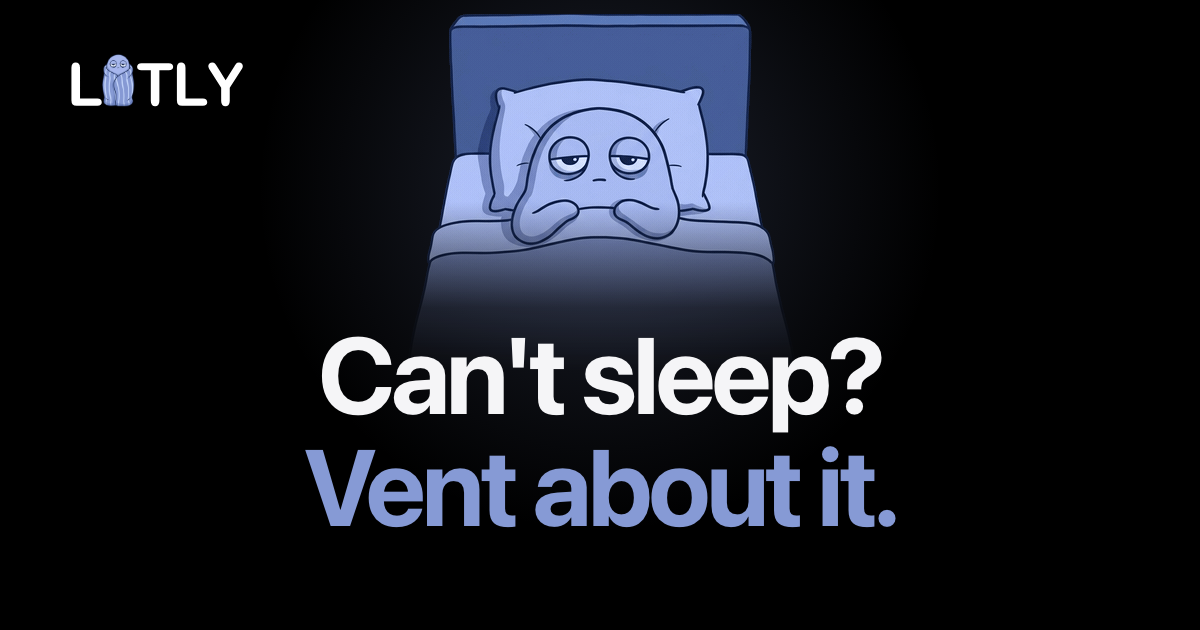
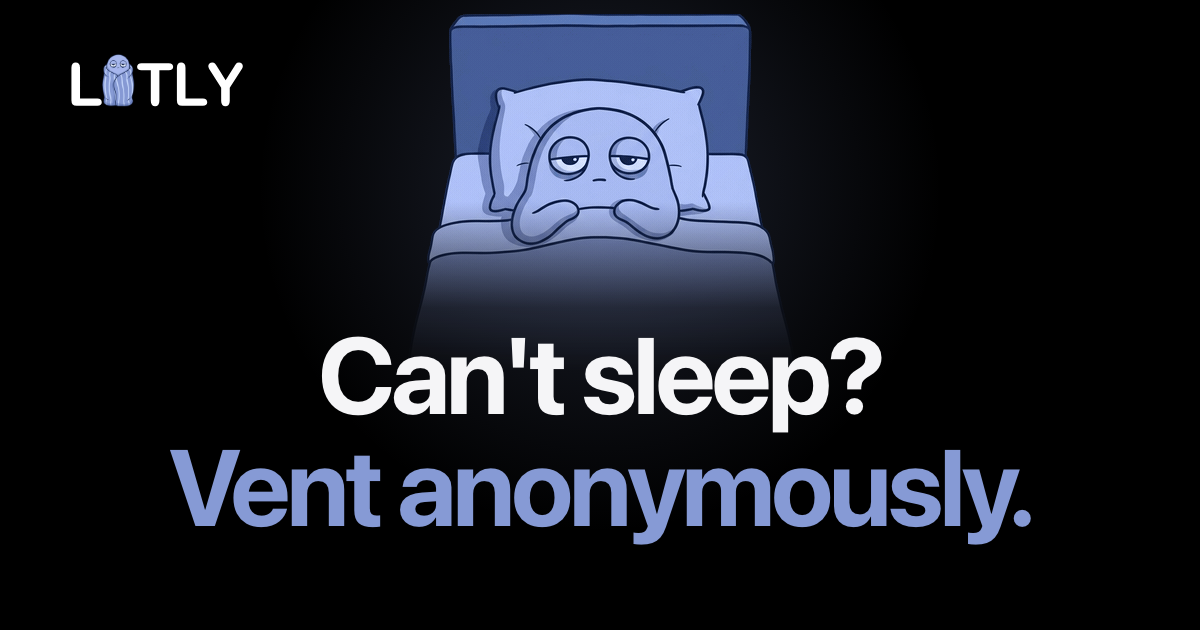
Use 'Vent anonymously.' on OG image and sign-up headline

Changed region(s): [[0.1233, 0.6937, 0.8633, 0.8746]]

diff --git a/public/index.html b/public/index.html
@@ -24,7 +24,7 @@
   <meta property="og:image:type" content="image/png">
   <meta property="og:image:width" content="1200">
   <meta property="og:image:height" content="630">
-  <meta property="og:image:alt" content="Litly - Can't sleep? Vent about it.">
+  <meta property="og:image:alt" content="Litly - Can't sleep? Vent anonymously.">
   <meta property="og:locale" content="en_US">
 
   <!-- Twitter / X -->
@@ -32,7 +32,7 @@
   <meta name="twitter:url" content="https://litly.com">
   <meta name="twitter:title" content="Can't sleep?">
   <meta name="twitter:image" content="https://litly.com/og-v3.png">
-  <meta name="twitter:image:alt" content="Litly - Can't sleep? Vent about it.">
+  <meta name="twitter:image:alt" content="Litly - Can't sleep? Vent anonymously.">
 
   <link rel="preload" href="/sleepless.webp" as="image" type="image/webp" fetchpriority="high">
   <style>

diff --git a/public/signup.html b/public/signup.html
@@ -97,7 +97,7 @@
   <section class="left">
     <a href="/" class="logo" aria-label="Litly home"><img src="/logo.svg" alt="Litly" width="130" height="40"></a>
     <div class="form">
-      <h1>Can't sleep?<br><span>Vent about it.</span></h1>
+      <h1>Can't sleep?<br><span>Vent anonymously.</span></h1>
       <p class="lede">Join everyone who's up late. Choose to stay anonymous.</p>
       <div class="sso">
         <button type="button" data-provider="google">

diff --git a/AGENTS.md b/AGENTS.md
@@ -24,14 +24,14 @@ Live at **https://litly.com**. An anonymous "what kept you up last night?" feed.
 - **Moderation:** `/admin` (`public/admin.html`) lists posts and replies and can delete, restore or ban. The API is protected by the `ADMIN_TOKEN` secret, sent as `Authorization: Bearer <token>`. Banning deletes all of that person's content.
 - **Domains:** All non-canonical hosts (`www.litly.com` and `*.workers.dev`, including `cant-sleep-feed.flektmail.workers.dev` via `redirect-worker/`) 301 redirect to `litly.com`.
 
-- **Sign-up page (`/signup`, `public/signup.html`):** Headline "Can't sleep? Vent about it." (accent on the second line). Google and Apple buttons (Better Auth, `src/auth.js`, served under `/api/auth/*`) with terms and privacy agreement text placed directly underneath. The right side shows the sleepy mascot plus a slow single lane of cards (3-4 visible, fading at the edges, drifting upward in a seamless loop, pausing on hover) built from the top 5 posts by me-too from `GET /api/top` (bodies trimmed to 180 chars, no replies), so the full feed isn't exposed to logged-out visitors.
+- **Sign-up page (`/signup`, `public/signup.html`):** Headline "Can't sleep? Vent anonymously." (accent on the second line). Google and Apple buttons (Better Auth, `src/auth.js`, served under `/api/auth/*`) with terms and privacy agreement text placed directly underneath. The right side shows the sleepy mascot plus a slow single lane of cards (3-4 visible, fading at the edges, drifting upward in a seamless loop, pausing on hover) built from the top 5 posts by me-too from `GET /api/top` (bodies trimmed to 180 chars, no replies), so the full feed isn't exposed to logged-out visitors.
 
 - **Legal pages:** `/privacy` (`public/privacy.html`) and `/terms` (`public/terms.html`), linked from the sign-up page and the footer. They contain a `[CONTACT EMAIL]` placeholder to replace with a real address, and they should be reviewed by a lawyer.
 
 - **Accounts:** Sign in with Google or Apple via Better Auth. Real name and email are stored in the `user` table but never shown publicly, and posts/replies never reference accounts. The header shows a "Log in" button, or the person's avatar + username (links to `/account`) when signed in. To avoid flicker, an inline script paints the header from a `litly_me` localStorage cache before first paint, then `/api/profile` confirms it and only repaints on a change; a `litly_pending` flag hides the header while returning from a sign-in. Sessions last 90 days of inactivity (rolling, refreshed daily). `/account` (`public/account.html`) shows the avatar, username and name; `GET/POST /api/profile` assigns a random username (e.g. `hazy_moon_838`) and avatar on first visit, and lets them change both (username 3-20 chars `[a-z0-9_]`, unique). Posting is still anonymous and tied to the IP hash, not the account.
 
 ## Design
-Social preview (Open Graph / Twitter card) image is `public/og-v3.png` (1200x630): black, the sleeping mascot centered over "Can't sleep?" with "Vent about it." in the accent color beneath it, and the logo top-left. No subtext, and no og/twitter description tags. Bump the filename when it changes, since platforms cache these.
+Social preview (Open Graph / Twitter card) image is `public/og-v3.png` (1200x630): black, the sleeping mascot centered over "Can't sleep?" with "Vent anonymously." in the accent color beneath it, and the logo top-left. No subtext, and no og/twitter description tags. Bump the filename when it changes, since platforms cache these.
 
 Apple-style minimalism: black background, system SF Pro font and a soothing periwinkle accent (`#869ad5`) matching the tired avatar mascot. The brand logo (`public/logo.svg`) features a custom tired mascot wrapped in a blanket in place of the letter "I" (Pixar-style). Favicon suite follows modern web standards: scalable `public/favicon.svg` and multi-resolution 32-bit `public/favicon.ico` (16, 32, 48px) with full alpha transparency, featuring the blanket-wrapped mascot inside an Apple-style rounded black squircle with transparent corners; alongside `public/apple-touch-icon.png` (180x180) and standard PNG icons (`favicon-32x32.png`, `favicon-16x16.png`). The hero features an animated sleeping character (`public/sleepless.webp` with `public/sleepless.gif` fallback, preloaded with high fetch priority) that blinks and yawns over the main headline ("Can't sleep?"). Subhead: "You're not alone. Vent anonymously." The post composer is a compact auto-expanding field featuring a character-by-character typing placeholder cycling punchy late-night thoughts (animating immediately on start). Keep everything else simple, with no decorative noise.
 
